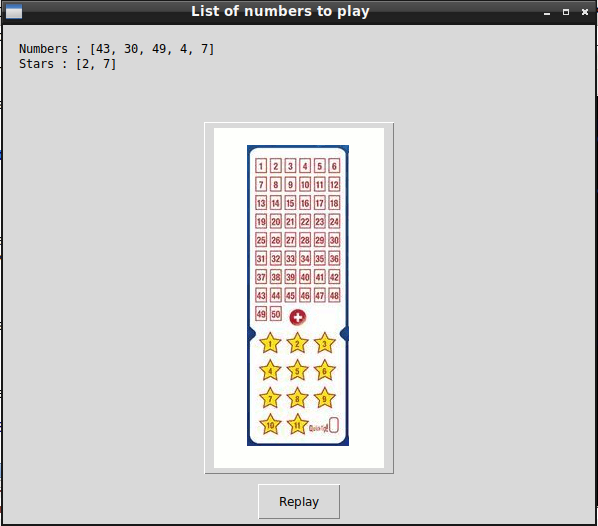
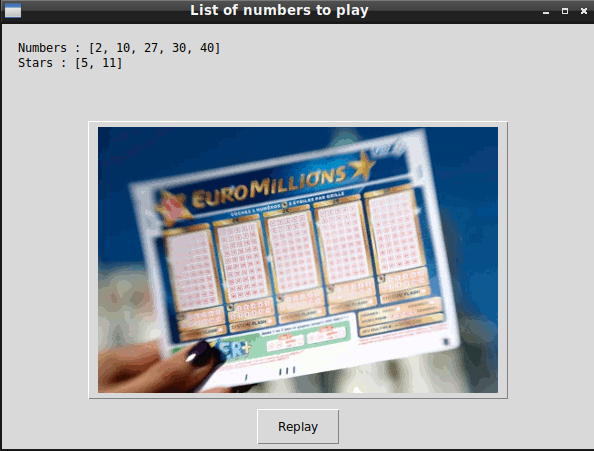
sort the resluts

diff --git a/euroMillions.py b/euroMillions.py
@@ -6,14 +6,14 @@ import sys
 
 
 
-ticket = "./images/ticket.gif"
+ticket = "./images/ticketfull1.gif"
 
 
 def lottery():
     inputNum = 50
     outputNum = list(range(inputNum + 1))
     outputNum.remove(0)
-    inputSta = 9
+    inputSta = 12
     outputSta = list(range(inputSta + 1))
     outputSta.remove(0)
 
@@ -23,6 +23,10 @@ def lottery():
 
     top5 = outputNum[:5]
     top2 = outputSta[:2]
+
+    top5.sort()
+    top2.sort()
+
     lotChoice = ["Replay"]
 
     replay = buttonbox(image=ticket,choices=lotChoice,title="List of numbers to play", msg="Numbers : " + str(top5) + str(" \nStars : " + str(top2)))

diff --git a/README.md b/README.md
@@ -10,7 +10,7 @@ EuroMillions-Lottery select randomly the numbers you can play for the Lottery.
 
 ## Rules of the game :
 
-Like the real EuroMillions Lottery ticket this game select for you 5 numbers between 1 and 50 and 2 stars between 1 and 11.  
+Like the real EuroMillions Lottery ticket this game select for you 5 numbers between 1 and 50 and 2 stars between 1 and 12.  
 If you click the Replay button the game select again randomly the numbers for you.
 
 ## What you need to make it work :
